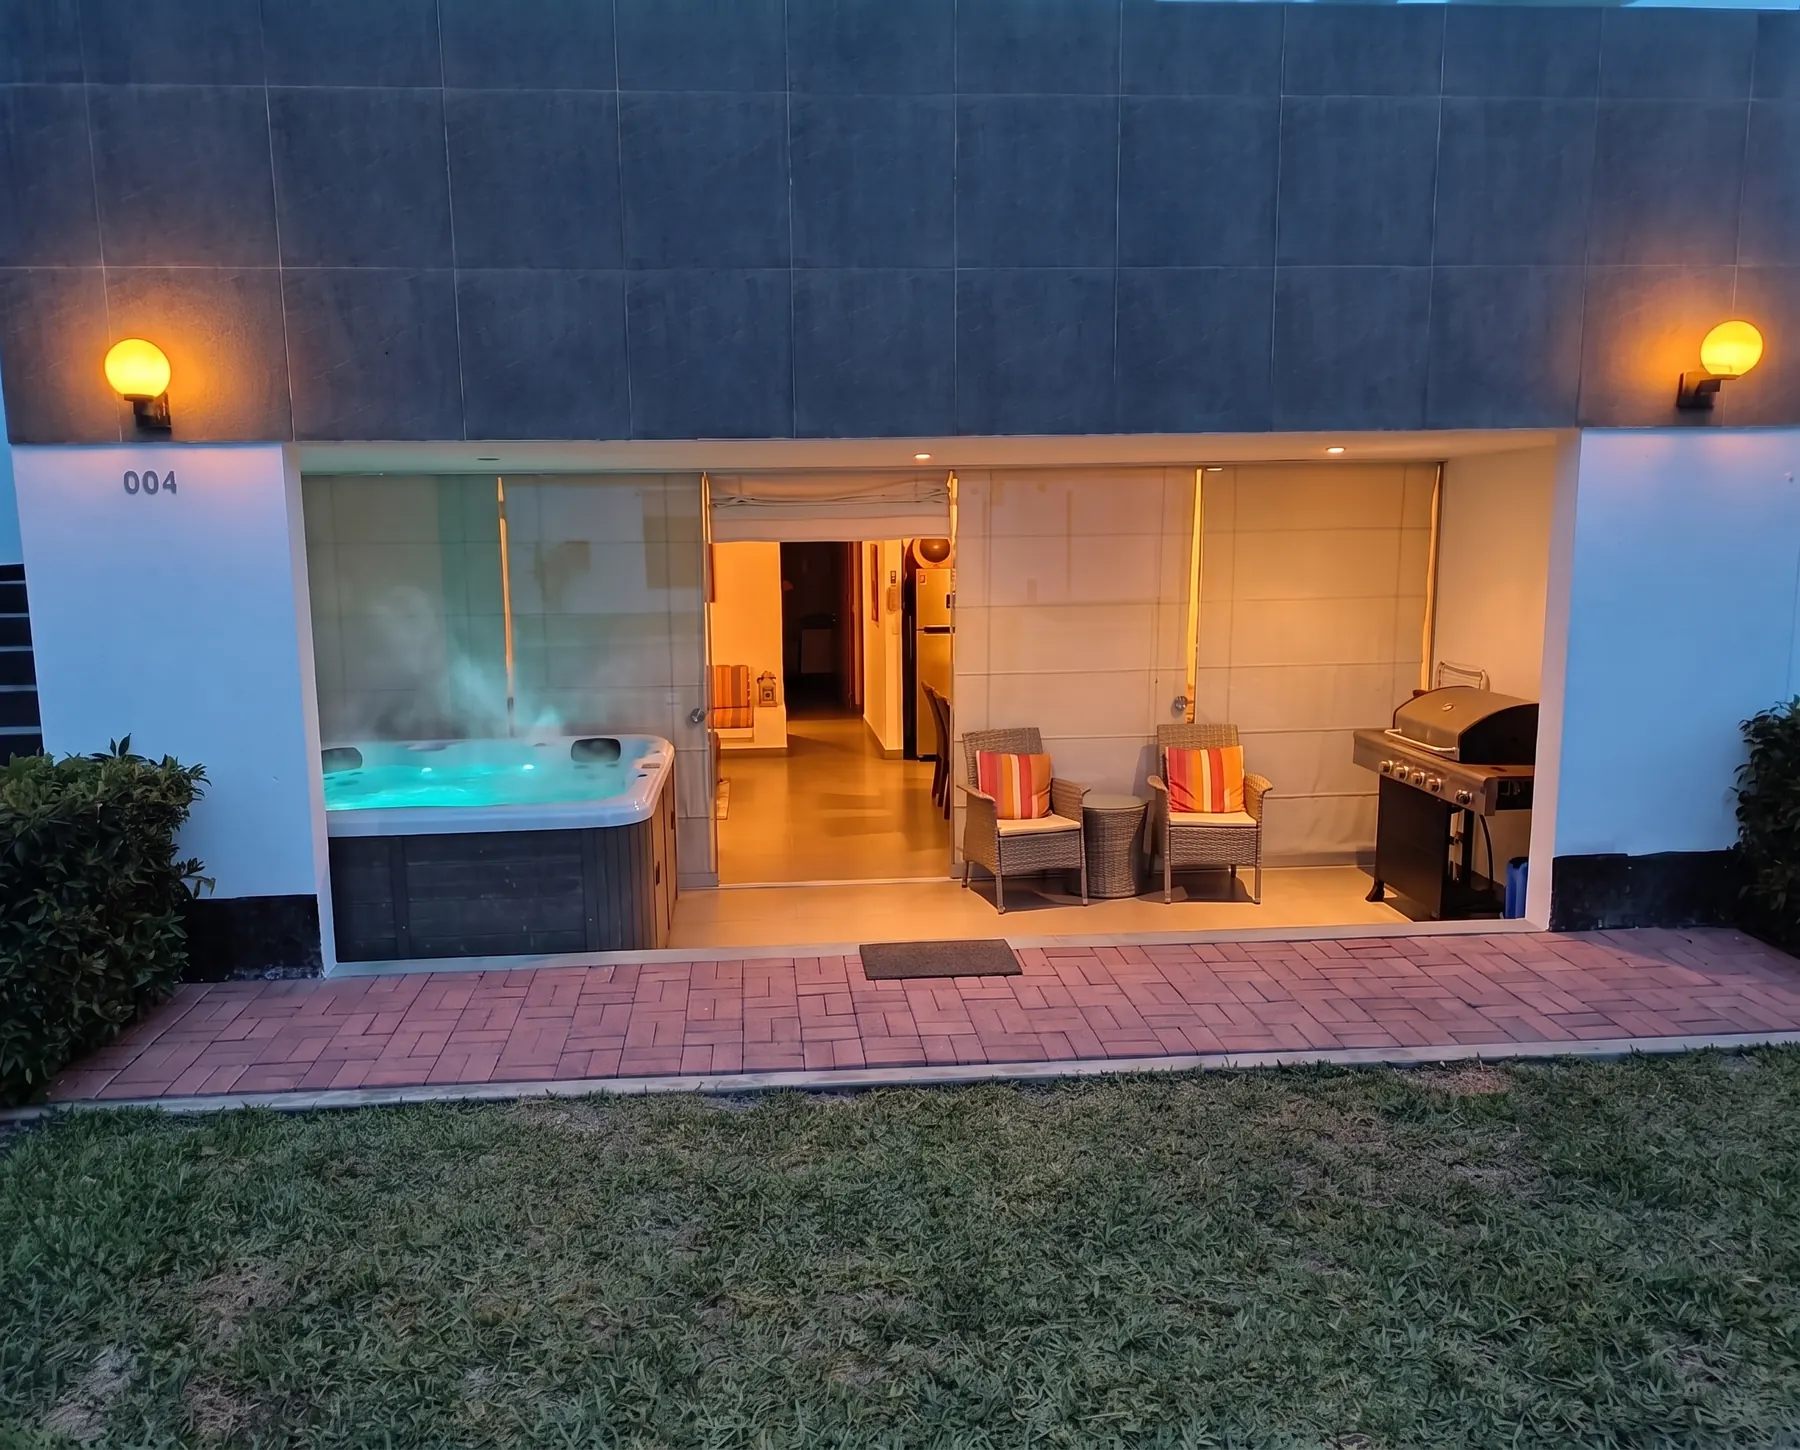
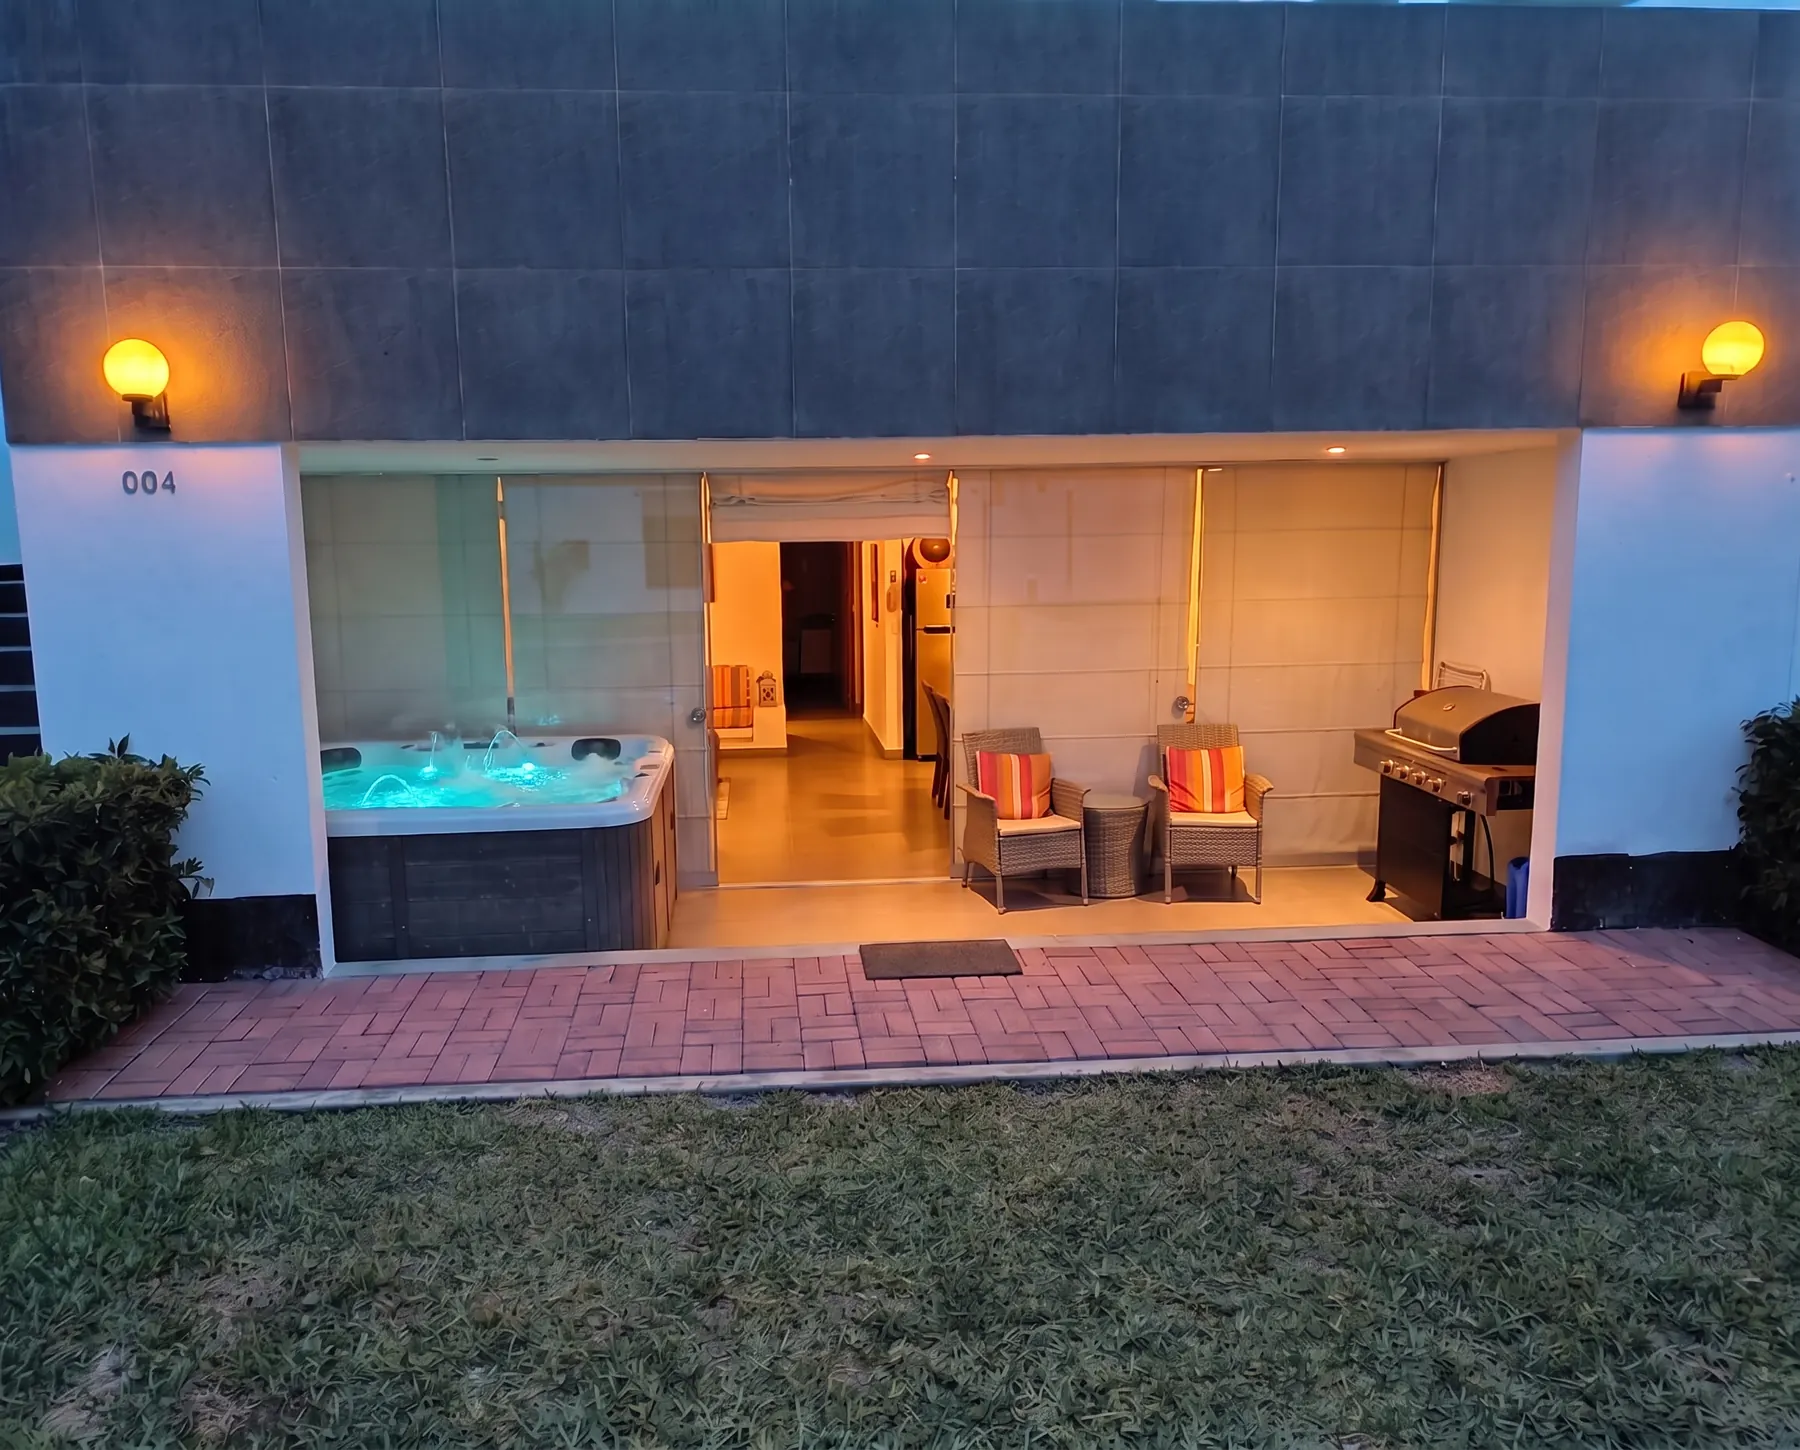
Jacuzzi sin vapor: agua con burbujas del hidromasaje en las fotos de noche

diff --git a/tools/build_images.py b/tools/build_images.py
@@ -26,11 +26,11 @@ IMAGES = {
     'juegos': ('fotos_v1/05_juegos_ninos.png', {}),
     # El depa
     'fachada-dia': ('fotos_v2/09b_fachada_dia.png', {}),
-    'fachada-noche': ('fotos_v2/10b_fachada_noche.png', {}),
+    'fachada-noche': ('sin_vapor/fachada_noche_sin_vapor.png', {}),
     'terraza-dia': ('fotos_v1/11_terraza_parrilla.png', {}),
     'terraza-noche': ('fotos_v3_ligero/terraza_noche.png', {}),
     'jacuzzi-dia': ('fotos_v3_ligero/jacuzzi_dia.png', {}),
-    'jacuzzi-noche': ('fotos_v2/12b_jacuzzi_noche.png', {}),
+    'jacuzzi-noche': ('sin_vapor/jacuzzi_noche_sin_vapor.png', {}),
     'sala': ('fotos_v3_ligero/sala_dia_fix.png', {'crop': (0, 0, 0, 0.09)}),
     'sala-comedor': ('fotos_v3_ligero/sala_comedor_dia.png', {'crop': (0.03, 0, 0, 0)}),
     'sala-comedor-noche': ('fotos_v3_ligero/sala_comedor_noche_led.png', {'white': True}),
